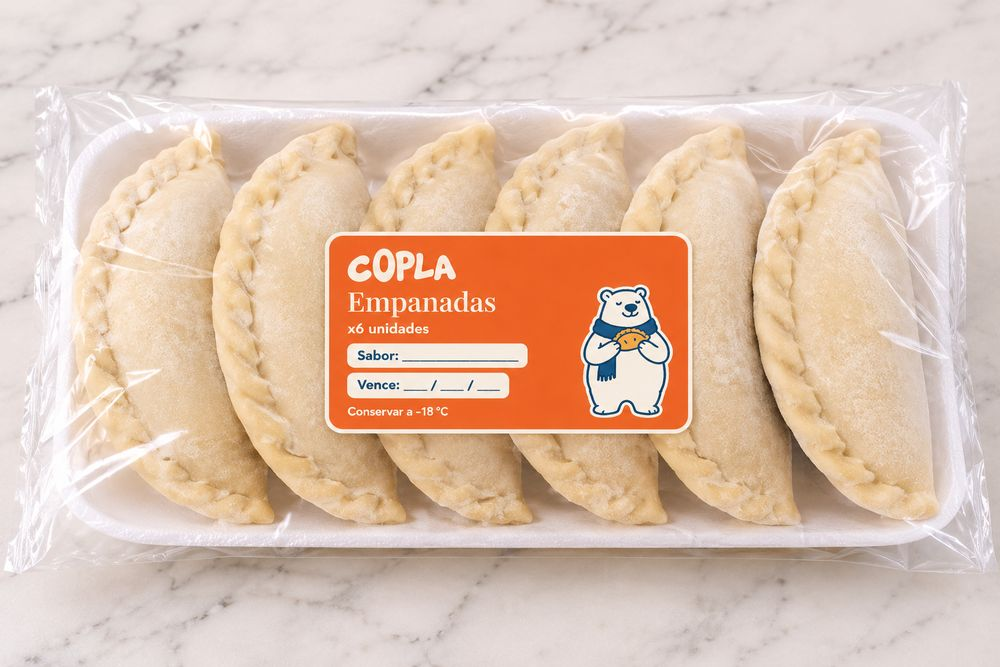
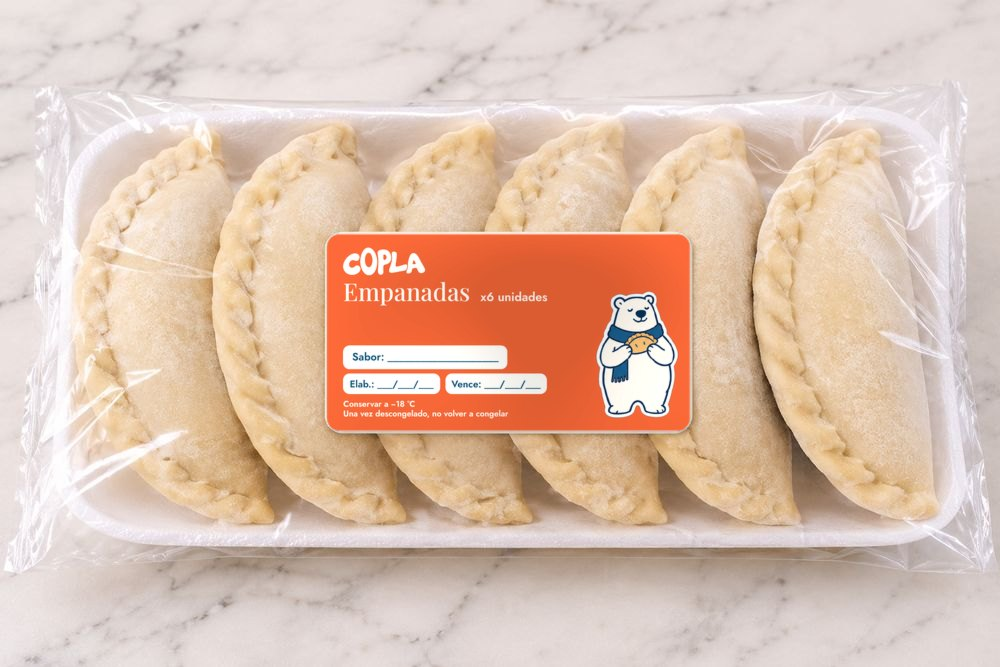
Etiquetas nuevas en las fotos de productos; bomboncitos pasan a Próximamente
Claude-Session: https://claude.ai/code/session_0173NJfChRwcVaLJWfNojuiK

Changed region(s): [[0.31, 0.3298, 0.713, 0.6597]]

diff --git a/js/productos.js b/js/productos.js
@@ -27,7 +27,7 @@ window.COPLA_PRODUCTOS = [
     nombre: "Empanadas",
     descripcion: "Caseras, de masa tierna y relleno generoso. Del freezer al horno en minutos.",
     color: "naranja",
-    foto: "img/productos/empanadas.jpg",
+    foto: "img/productos/empanadas.jpg?v=3",
     copo: "img/copo/copo-empanada.png",
     etiqueta: "Favorita",
     // Sabores para elegir. Dejá la lista vacía [] si no hay opciones.
@@ -59,7 +59,7 @@ window.COPLA_PRODUCTOS = [
     nombre: "Tartines",
     descripcion: "Tartas individuales bien doradas, listas para el horno. Una porción justa para cualquier día.",
     color: "azul",
-    foto: "img/productos/tartines.jpg?v=2",
+    foto: "img/productos/tartines.jpg?v=3",
     copo: "img/copo/copo-saludo.png",
     etiqueta: "Nuevo",
     sabores: ["Atún", "Choclo", "Espinaca y queso"],
@@ -72,7 +72,7 @@ window.COPLA_PRODUCTOS = [
     nombre: "Medias tartas",
     descripcion: "Los sabores de nuestros tartines en tamaño para compartir. Del freezer al horno y a la mesa.",
     color: "naranja",
-    foto: "img/productos/medias-tartas.jpg",
+    foto: "img/productos/medias-tartas.jpg?v=3",
     copo: "img/copo/copo-saludo.png",
     etiqueta: "Nuevo",
     sabores: ["Atún", "Choclo", "Espinaca y queso", "Jamón y queso"],
@@ -85,7 +85,7 @@ window.COPLA_PRODUCTOS = [
     nombre: "Hamburguesitas de verdura",
     descripcion: "Livianas, sabrosas y separadas una por una para cocinar solo las que necesitás.",
     color: "verde",
-    foto: "img/productos/hamburguesitas.jpg",
+    foto: "img/productos/hamburguesitas.jpg?v=3",
     copo: "img/copo/copo-hamburguesa.png",
     etiqueta: "",
     sabores: ["Lenteja", "Arvejas", "Garbanzos", "Soja", "Quinoa"],
@@ -100,7 +100,7 @@ window.COPLA_PRODUCTOS = [
     nombre: "Chipacitos",
     descripcion: "Bien quesudos y doraditos. El mate nunca estuvo tan bien acompañado.",
     color: "amarillo",
-    foto: "img/productos/chipacitos.jpg",
+    foto: "img/productos/chipacitos.jpg?v=3",
     copo: "img/copo/copo-chipacitos.png",
     etiqueta: "",
     sabores: [],
@@ -112,9 +112,9 @@ window.COPLA_PRODUCTOS = [
   {
     id: "postres",
     nombre: "Postres",
-    descripcion: "Vasitos individuales de 200 ml y bomboncitos de banana bañados en chocolate. Elegí tu antojo.",
+    descripcion: "Vasitos individuales de 200 ml para darte el gusto. Elegí tu antojo.",
     color: "lima",
-    foto: "img/productos/postres.jpg",
+    foto: "img/productos/postres.jpg?v=3",
     copo: "img/copo/copo-postres.png",
     etiqueta: "",
     conservacion: "Conservar congelado a −18 °C. Consumir antes de 60 días. Descongelar en heladera. Una vez descongelado, consumir dentro de las 48 h. No recongelar.",
@@ -123,7 +123,6 @@ window.COPLA_PRODUCTOS = [
       { nombre: "Cheesecake · 200 ml", precio: null },
       { nombre: "Chocotorta · 200 ml", precio: null },
       { nombre: "Tiramisú · 200 ml", precio: null },
-      { nombre: "Bomboncitos de banana x3", precio: null },
     ],
   },
 ];
@@ -146,5 +145,11 @@ window.COPLA_PROXIMAMENTE = [
     descripcion: "Caseras y en frasco, para darle sabor a la picada o a cualquier comida.",
     color: "naranja",
     foto: "img/productos/conservas.jpg",
+  },
+  {
+    nombre: "Bomboncitos",
+    descripcion: "De banana bañada en chocolate, en bocados para tener en el freezer.",
+    color: "lima",
+    foto: "img/productos/bomboncitos.jpg",
   },
 ];

diff --git a/index.html b/index.html
@@ -270,7 +270,7 @@
 
   <script src="https://cdnjs.cloudflare.com/ajax/libs/leaflet/1.9.4/leaflet.min.js" crossorigin="anonymous" referrerpolicy="no-referrer"></script>
   <script src="js/config.js?v=20261111a"></script>
-  <script src="js/productos.js?v=20261113e"></script>
+  <script src="js/productos.js?v=20261119a"></script>
   <script src="js/app.js?v=20261113d"></script>
   <script src="js/mapa.js?v=20261108j"></script>
   <script src="js/asistente.js?v=20261113b"></script>
